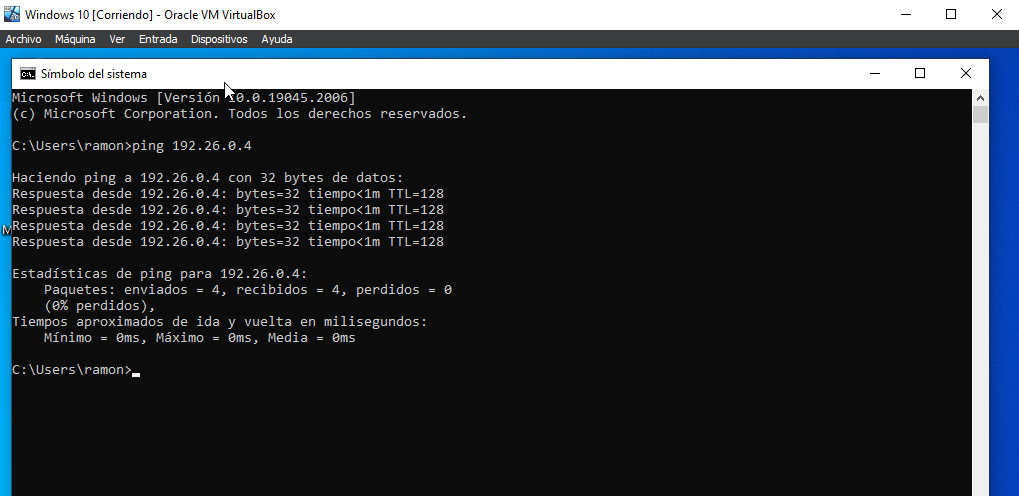
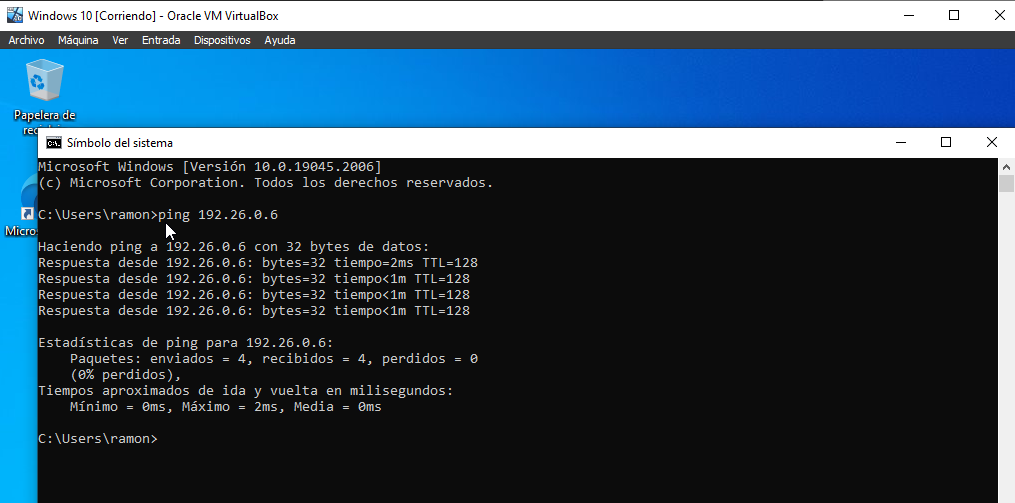
Actualizacion

diff --git a/Readme.md b/Readme.md
@@ -105,7 +105,7 @@ Ejecutamos el comando ipconfig en el cmd.
 
 
 
-
+------
 
 
 
@@ -119,21 +119,56 @@ DIAGRAMA DE LA RED:
 
 
 
-Ping de w10 a linux:
+
+
+
+
+------
+
+
+
+
+
+**-Ping de w10 a centOS:**
 
 <img src="/img/13ºimagenn.png" alt="13ºimagenn"  />
 
-Ping de wserv a linux:
 
-<img src="/img/14ºimagenn.png" alt="14ºimagenn"  />
 
-Ping entre wserv a w10:
-
-<img src="/img/15ºimagenn.png" alt="12ºimagenn"  />
-
-Ping de w10 a wserv:
+-**Ping de w10 a wserv:**
 
 <img src="/img/16ºimagenn.png" alt="16ºimagenn"  />
 
-no tengo ping de linux a los demás:
 
+
+------
+
+
+
+
+
+**-Ping de wserv a linux:**
+
+<img src="/img/14ºimagenn.png" alt="14ºimagenn"  />
+
+**-Ping de wserv a w10:**
+
+<img src="/img/15ºimagenn.png" alt="12ºimagenn"  />
+
+
+
+------
+
+
+
+
+
+**-Ping de centos a w10:**
+
+
+
+<img src="/img/17ºimagenn.png" alt="17ºimagenn"  />
+
+-**Ping de centos a wserv:**
+
+<img src="/img/18ºimagenn.png" alt="18ºimagenn"  />
